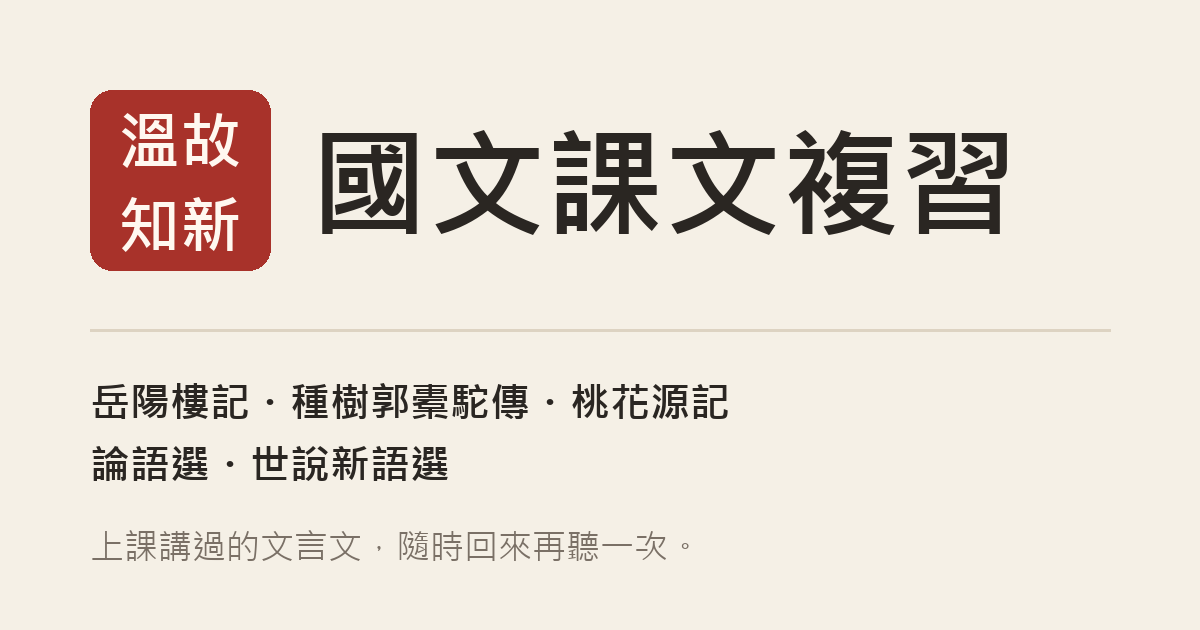
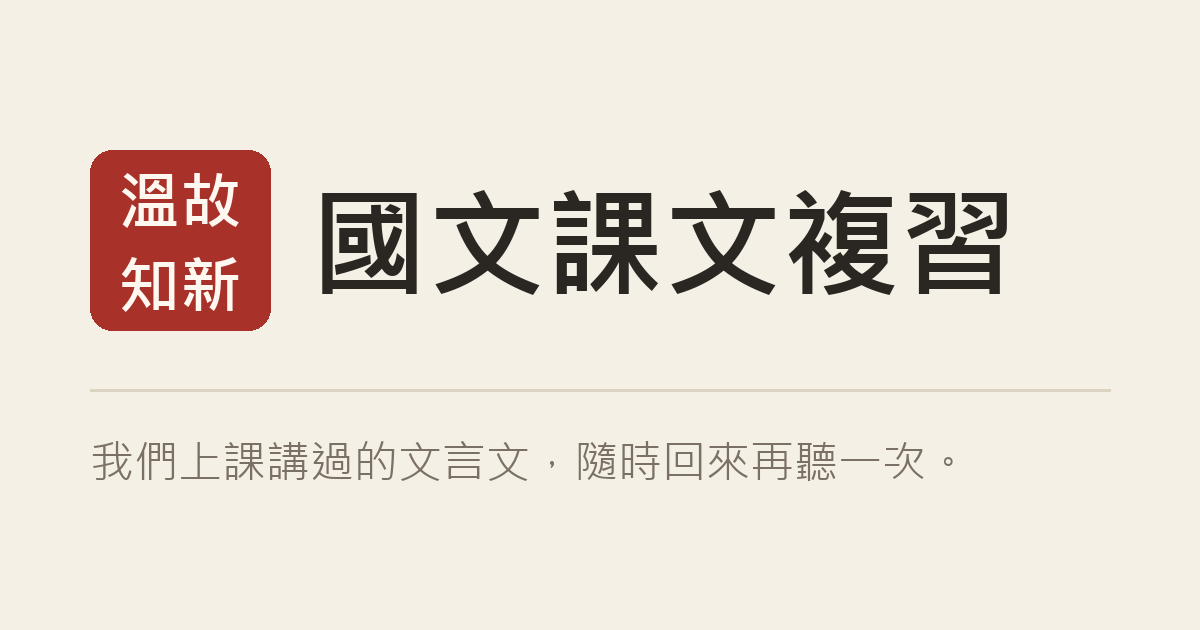
review：預覽說明精簡為「我們上課講過的文言文」

diff --git a/review/index.html b/review/index.html
@@ -5,12 +5,12 @@
 <meta name="viewport" content="width=device-width, initial-scale=1, viewport-fit=cover">
 <meta name="robots" content="noindex,nofollow">
 <title>國文課文複習</title>
-<meta name="description" content="岳陽樓記、種樹郭橐駝傳、桃花源記、論語選、世說新語選——上課講過的文言文，隨時回來再聽一次。">
+<meta name="description" content="我們上課講過的文言文，隨時回來再聽一次。">
 <!-- LINE／社群貼連結時顯示的預覽卡片 -->
 <meta property="og:type" content="website">
 <meta property="og:site_name" content="花蓮高商國文">
 <meta property="og:title" content="國文課文複習">
-<meta property="og:description" content="岳陽樓記、種樹郭橐駝傳、桃花源記、論語選、世說新語選——上課講過的文言文，隨時回來再聽一次。">
+<meta property="og:description" content="我們上課講過的文言文，隨時回來再聽一次。">
 <meta property="og:url" content="https://laisurjan.github.io/teacher/review/">
 <meta property="og:image" content="https://laisurjan.github.io/teacher/review/og.png">
 <meta property="og:image:width" content="1200">
